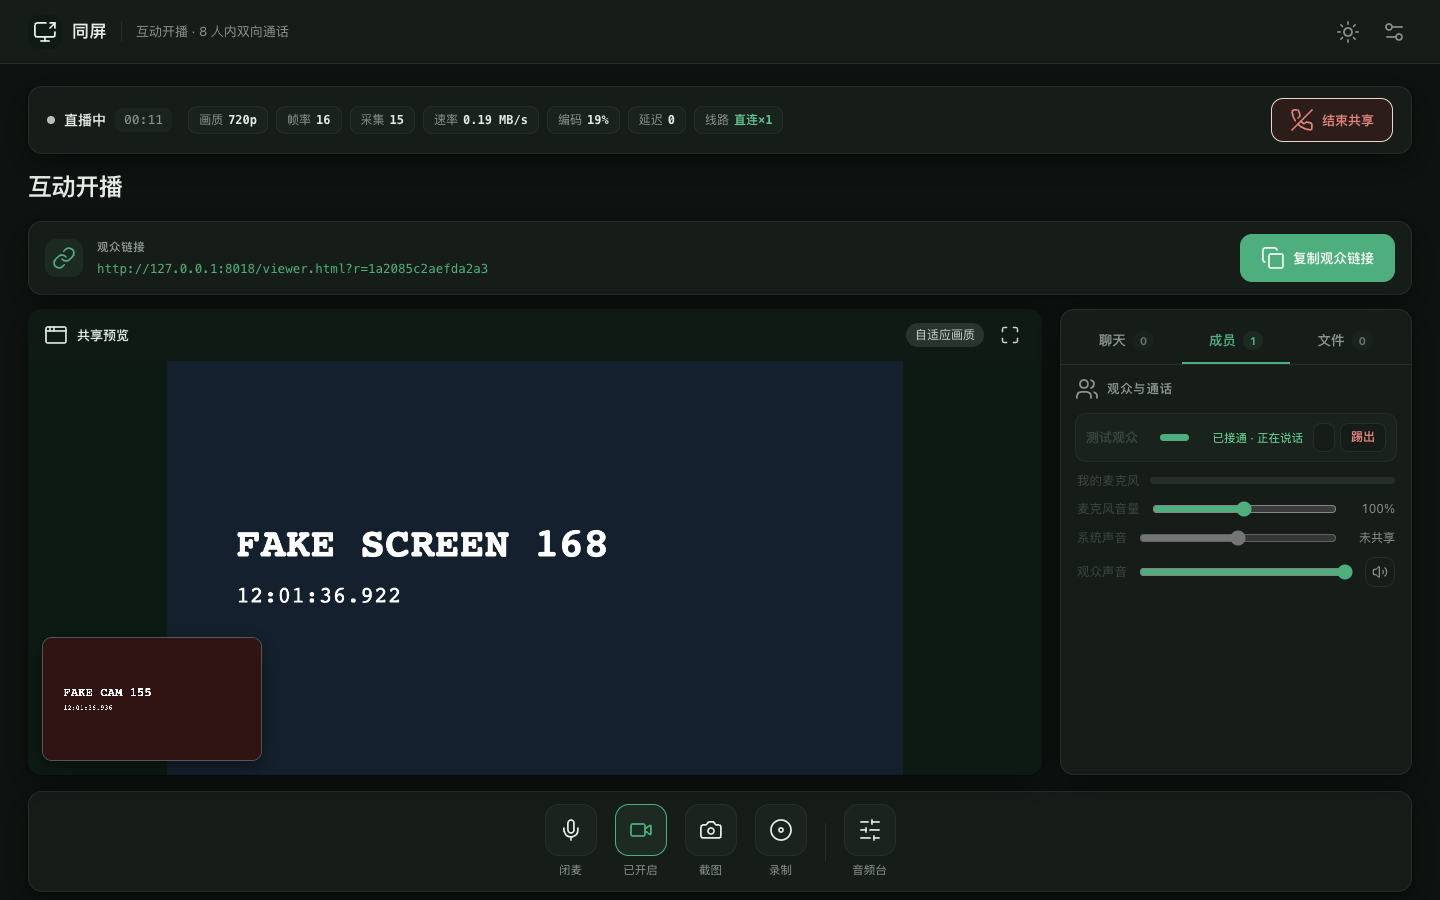
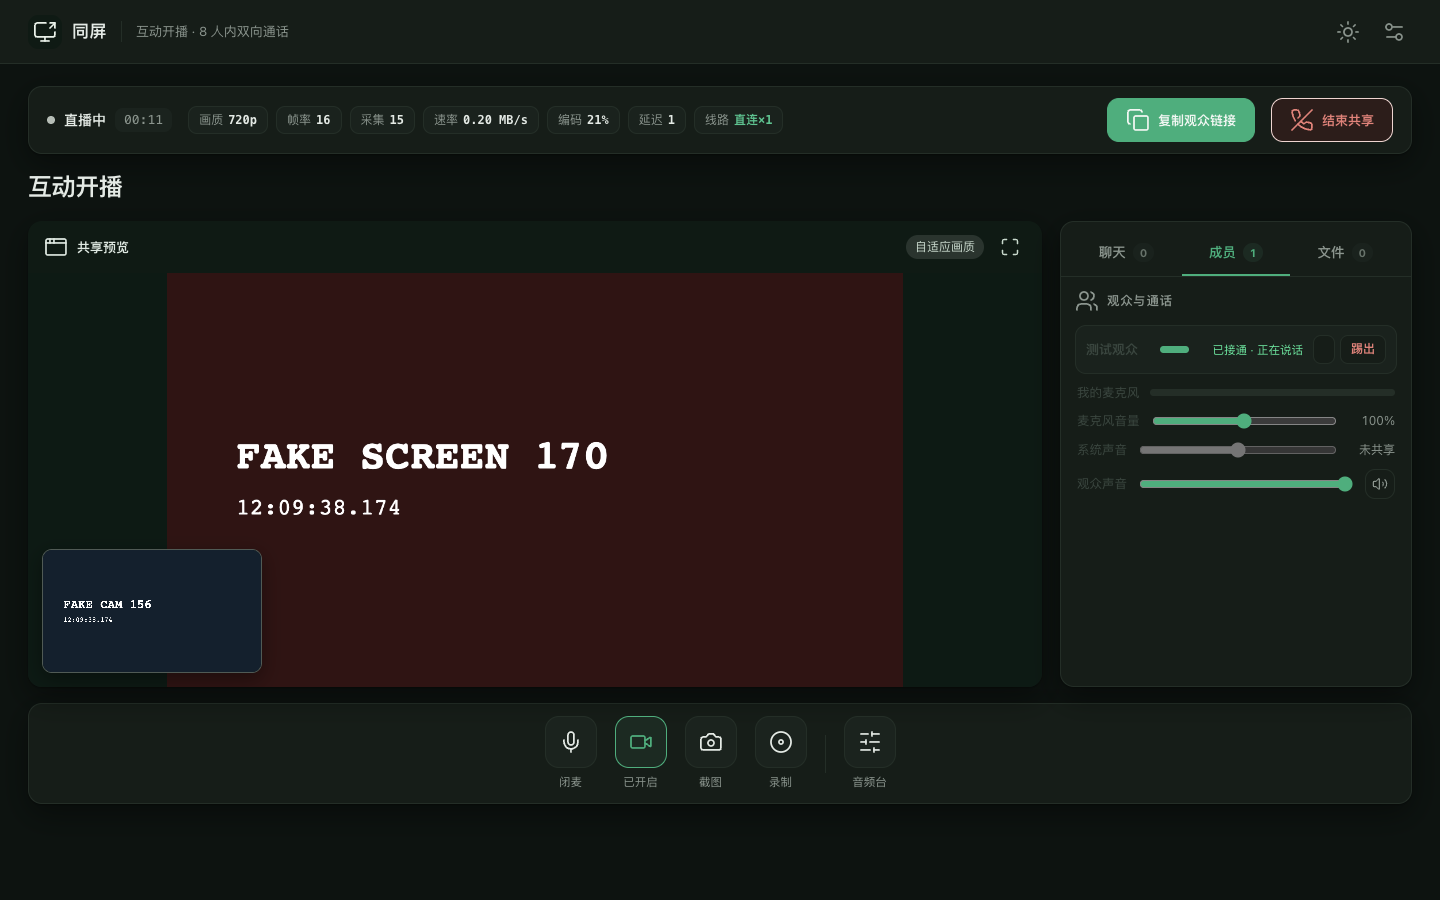
复制观众链接按钮挪入顶部状态栏（结束共享左边），底部链接条删除，链接文本隐藏承载

diff --git a/web/host.html b/web/host.html
@@ -1,5 +1,5 @@
 <!DOCTYPE html>
-<html lang="zh-CN" data-build="09-27 20:00">
+<html lang="zh-CN" data-build="09-27 20:09">
 <head>
 <meta charset="utf-8">
 <meta name="viewport" content="width=device-width, initial-scale=1, viewport-fit=cover">
@@ -37,21 +37,15 @@
       <span class="strip-stat">延迟 <b id="stRtt">—</b></span>
       <span class="strip-stat">线路 <b id="stVia">—</b></span>
     </div>
-    <button id="stopBtn" class="button danger" disabled><i data-lucide="phone-off"></i>结束共享</button>
+    <button id="copyBtn" class="button primary" disabled style="flex-shrink:0;padding:9px 18px;font-size:13px"><i data-lucide="copy"></i><span id="copyBtnLabel">复制观众链接</span></button>
+    <button id="stopBtn" class="button danger" disabled style="flex-shrink:0"><i data-lucide="phone-off"></i>结束共享</button>
   </div>
   <section class="room-heading">
     <div>
       <div class="heading-title"><h1>互动开播</h1></div>
     </div>
   </section>
-  <div id="linkCard" class="live-bar">
-    <span class="live-bar-icon"><i data-lucide="link"></i></span>
-    <div class="live-bar-main">
-      <div class="live-bar-label">观众链接</div>
-      <div id="inviteLink" class="link"></div>
-    </div>
-    <button id="copyBtn" class="button primary" disabled><i data-lucide="copy"></i><span id="copyBtnLabel">复制观众链接</span></button>
-  </div>
+  <div id="inviteLink" class="link" style="display:none" aria-hidden="true"></div>
   <section class="workspace">
     <div class="stage-column">
       <section class="share-stage">
@@ -452,7 +446,6 @@ function stop() {
   $('camsRow').innerHTML = '';
   $('preview').srcObject = null;
   $('preview').style.display = 'none';
-  $('linkCard').classList.remove('show');
   $('viewersCard').classList.remove('show');
   $('chatCard').classList.remove('show');
   $('chatList').innerHTML = '';
@@ -529,7 +522,6 @@ function connectSignaling(secret) {
 function showInvite() {
   const link = `${location.origin}${BASE_PATH}/viewer.html?r=${room}`;
   $('inviteLink').textContent = link;
-  $('linkCard').classList.add('show');
   $('viewersCard').classList.add('show');
   $('chatCard').classList.add('show');
   $('copyBtn').disabled = false;

diff --git a/web/viewer.html b/web/viewer.html
@@ -1,5 +1,5 @@
 <!DOCTYPE html>
-<html lang="zh-CN" data-build="09-27 20:00">
+<html lang="zh-CN" data-build="09-27 20:09">
 <head>
 <meta charset="utf-8">
 <meta name="viewport" content="width=device-width, initial-scale=1, maximum-scale=1, user-scalable=no, viewport-fit=cover">

diff --git a/tools/rebuild-2026-09-27.py b/tools/rebuild-2026-09-27.py
@@ -168,6 +168,16 @@ function sendChat() {"""),
     # P14 文件面板登记
     ("  addFileMsg(msgId, f.name, f.size, '准备上传…', '');",
      "  addFileMsg(msgId, f.name, f.size, '准备上传…', '');\n  trackFile(msgId, f.name, f.size);"),
+    # P24 复制按钮进顶部状态栏：showInvite 不再操作已删除的 linkCard
+    ("""  $('inviteLink').textContent = link;
+  $('linkCard').classList.add('show');
+  $('viewersCard').classList.add('show');""",
+     """  $('inviteLink').textContent = link;
+  $('viewersCard').classList.add('show');"""),
+    # P25 stop() 同步去掉 linkCard 引用
+    ("""  $('linkCard').classList.remove('show');
+  $('viewersCard').classList.remove('show');""",
+     """  $('viewersCard').classList.remove('show');"""),
     # P23 无观众时也显示采集帧率（原版直接 return，主播开播后顶部/统计条全空）
     ("""setInterval(async () => {
   if (!peers.size) { $('stats').textContent = ''; lastStatsTs = 0; return; }""",
@@ -420,21 +430,15 @@ HOST_BODY = """<header class="topbar">
       <span class="strip-stat">延迟 <b id="stRtt">—</b></span>
       <span class="strip-stat">线路 <b id="stVia">—</b></span>
     </div>
-    <button id="stopBtn" class="button danger" disabled><i data-lucide="phone-off"></i>结束共享</button>
+    <button id="copyBtn" class="button primary" disabled style="flex-shrink:0;padding:9px 18px;font-size:13px"><i data-lucide="copy"></i><span id="copyBtnLabel">复制观众链接</span></button>
+    <button id="stopBtn" class="button danger" disabled style="flex-shrink:0"><i data-lucide="phone-off"></i>结束共享</button>
   </div>
   <section class="room-heading">
     <div>
       <div class="heading-title"><h1>互动开播</h1></div>
     </div>
   </section>
-  <div id="linkCard" class="live-bar">
-    <span class="live-bar-icon"><i data-lucide="link"></i></span>
-    <div class="live-bar-main">
-      <div class="live-bar-label">观众链接</div>
-      <div id="inviteLink" class="link"></div>
-    </div>
-    <button id="copyBtn" class="button primary" disabled><i data-lucide="copy"></i><span id="copyBtnLabel">复制观众链接</span></button>
-  </div>
+  <div id="inviteLink" class="link" style="display:none" aria-hidden="true"></div>
   <section class="workspace">
     <div class="stage-column">
       <section class="share-stage">

diff --git a/tools/e2e-2026-09-27.py b/tools/e2e-2026-09-27.py
@@ -41,8 +41,8 @@ with sync_playwright() as p:
     strip_txt = pg_host.locator('#stripState').inner_text()
     check('顶部状态=直播中', strip_txt == '直播中', strip_txt)
     check('“直播中”全页只出现一次', pg_host.locator('body').inner_text().count('直播中') == 1)
-    check('观众链接已展示', 'viewer.html?r=' in pg_host.locator('#inviteLink').inner_text())
-    check('直播条常驻可见', pg_host.locator('#linkCard').is_visible())
+    check('观众链接已生成（隐藏承载）', 'viewer.html?r=' in pg_host.locator('#inviteLink').text_content())
+    check('复制观众链接按钮在顶栏（结束共享左边）', pg_host.locator('#liveStrip #copyBtn').is_visible() and pg_host.locator('#liveStrip #copyBtn').count() == 1)
     copy_disabled = pg_host.locator('#copyBtn').is_disabled()
     check('复制按钮已启用', not copy_disabled)
     pg_host.click('#copyBtn')
